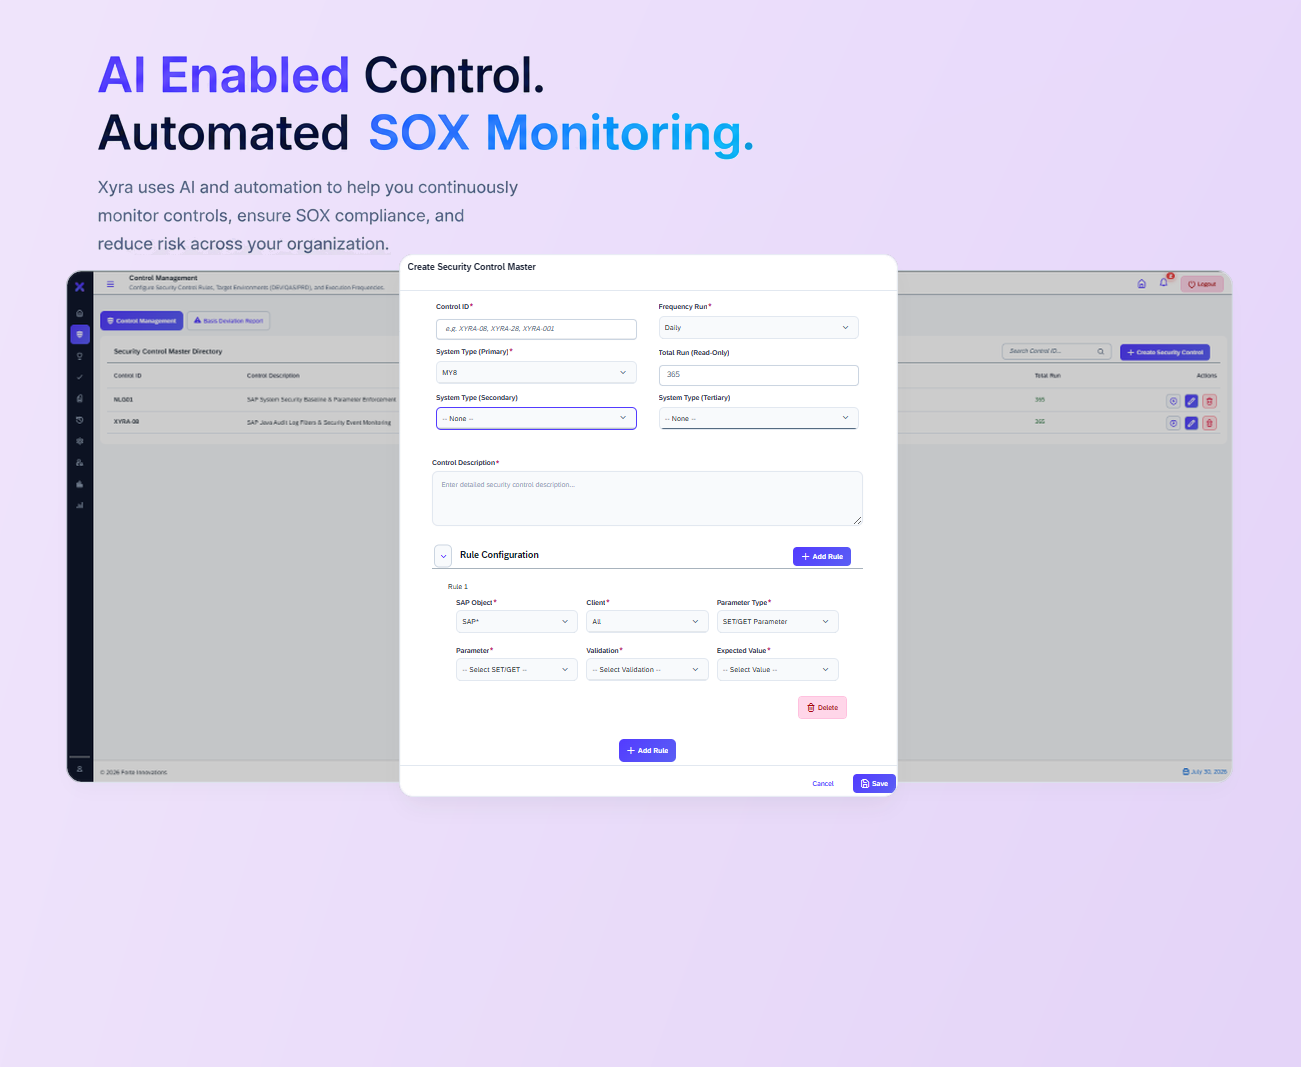
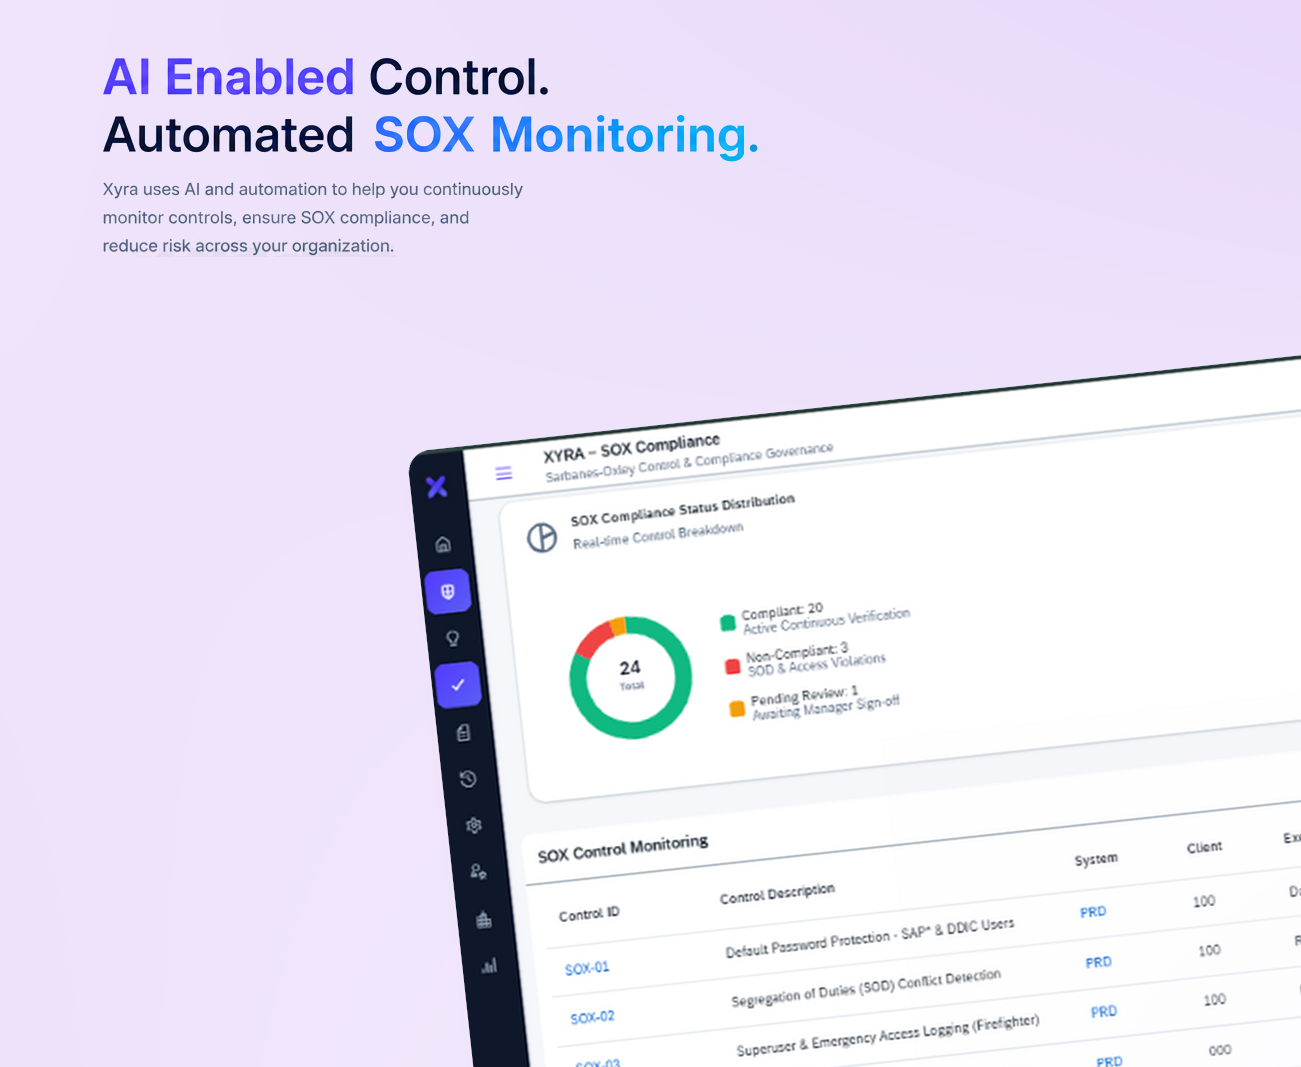
feat: Revamp login page slides and indicators, update styles, and replace images

diff --git a/webapp/controller/Login.controller.js b/webapp/controller/Login.controller.js
@@ -83,7 +83,6 @@ sap.ui.define([
         _bindIndicatorEvents: function () {
             var bar1 = document.getElementById("xyraHeroBar1");
             var bar2 = document.getElementById("xyraHeroBar2");
-            var bar3 = document.getElementById("xyraHeroBar3");
             if (bar1) {
                 bar1.onclick = function () {
                     this.onSlideSelect(1);
@@ -92,11 +91,6 @@ sap.ui.define([
             if (bar2) {
                 bar2.onclick = function () {
                     this.onSlideSelect(2);
-                }.bind(this);
-            }
-            if (bar3) {
-                bar3.onclick = function () {
-                    this.onSlideSelect(3);
                 }.bind(this);
             }
         },
@@ -120,7 +114,7 @@ sap.ui.define([
         },
 
         _toggleSlide: function () {
-            var iNext = (this._iCurrentSlide % 3) + 1;
+            var iNext = (this._iCurrentSlide % 2) + 1;
             this._goToSlide(iNext);
         },
 
@@ -128,16 +122,14 @@ sap.ui.define([
             this._iCurrentSlide = iIndex;
             var aSlides = [
                 this.byId("xyraSlide1"),
-                this.byId("xyraSlide2"),
-                this.byId("xyraSlide3")
+                this.byId("xyraSlide2")
             ];
             var aBars = [
                 document.getElementById("xyraHeroBar1"),
-                document.getElementById("xyraHeroBar2"),
-                document.getElementById("xyraHeroBar3")
+                document.getElementById("xyraHeroBar2")
             ];
 
-            for (var i = 0; i < 3; i++) {
+            for (var i = 0; i < 2; i++) {
                 var iSlideNum = i + 1;
                 if (aSlides[i]) {
                     if (iSlideNum === iIndex) {
@@ -167,10 +159,6 @@ sap.ui.define([
 
         onSlideSelect2: function () {
             this.onSlideSelect(2);
-        },
-
-        onSlideSelect3: function () {
-            this.onSlideSelect(3);
         },
 
         onRoleChange: function (oEvent) {

diff --git a/webapp/css/style.css b/webapp/css/style.css
@@ -1164,7 +1164,7 @@ textarea.sapMTextAreaInner {
   flex: 0 0 55% !important;
   width: 55% !important;
   height: 100% !important;
-  background: linear-gradient(135deg, #f0e5fc 0%, #ebe0fa 50%, #e3d2f7 100%) !important;
+  background: linear-gradient(135deg, #f0e5fc 0%, #ebe0fa 50%, #f8f2fe 100%) !important;
   background-color: #ede2fc !important;
   display: flex !important;
   flex-direction: column !important;
@@ -1217,27 +1217,28 @@ textarea.sapMTextAreaInner {
   z-index: 2 !important;
 }
 
-/* Showcase Card & Image - Slightly increased in size to fill slide nicely */
+/* Showcase Card & Image - Zero padding and flush bottom-right anchor (no gap) */
 .xyraHeroShowcase {
   width: 100% !important;
   height: 100% !important;
   flex: 1 1 auto !important;
   display: flex !important;
-  justify-content: center !important;
-  align-items: center !important;
-  padding: 1.5rem 2rem 2.5rem 2rem !important;
+  justify-content: flex-end !important;
+  align-items: flex-end !important;
+  padding: 0 !important;
+  margin: 0 !important;
   box-sizing: border-box !important;
   min-height: 0 !important;
+  overflow: hidden !important;
 }
 
 .xyraHeroImg {
-  max-width: 98% !important;
-  max-height: 92% !important;
-  width: auto !important;
-  height: auto !important;
-  object-fit: contain !important;
-  object-position: center center !important;
-  filter: drop-shadow(0 15px 35px rgba(15, 23, 42, 0.08)) !important;
+  width: 100% !important;
+  height: 100% !important;
+  max-width: 100% !important;
+  max-height: 100% !important;
+  object-fit: cover !important;
+  object-position: right bottom !important;
   transition: transform 0.4s ease !important;
 }
 

diff --git a/webapp/index.html b/webapp/index.html
@@ -10,7 +10,7 @@
             height: 100%;
         }
     </style>
-    <link rel="stylesheet" type="text/css" href="css/style.css?v=20260904_27">
+    <link rel="stylesheet" type="text/css" href="css/style.css?v=20260904_30">
     <script
         id="sap-ui-bootstrap"
         src="https://ui5.sap.com/1.150.0/resources/sap-ui-core.js"
